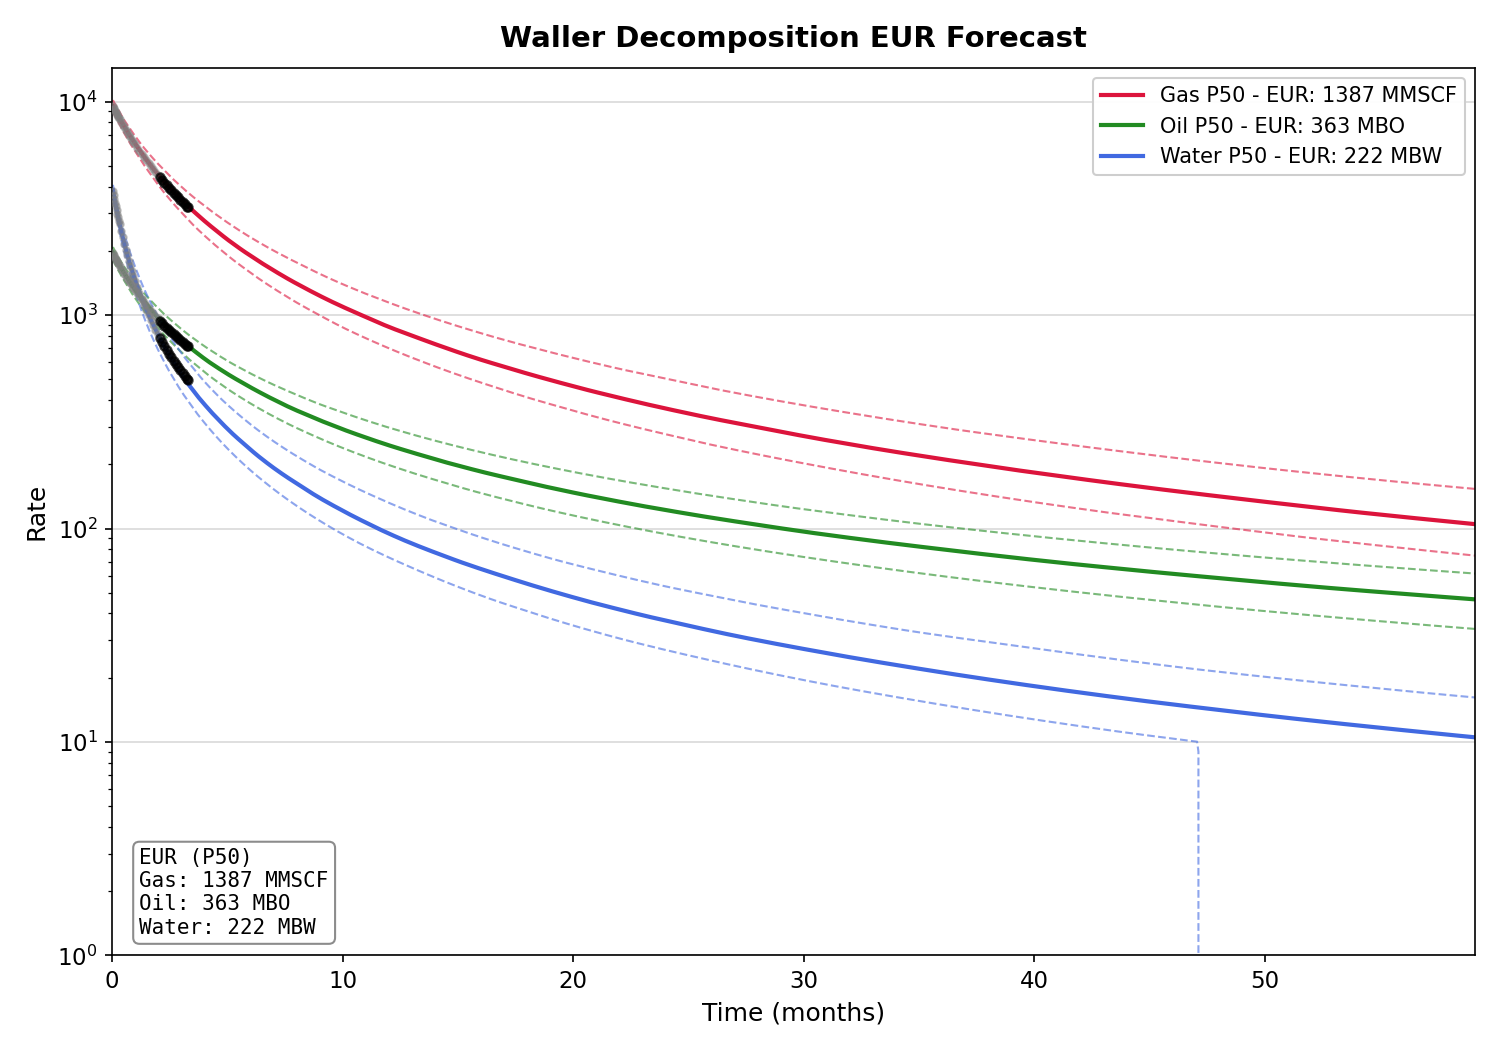
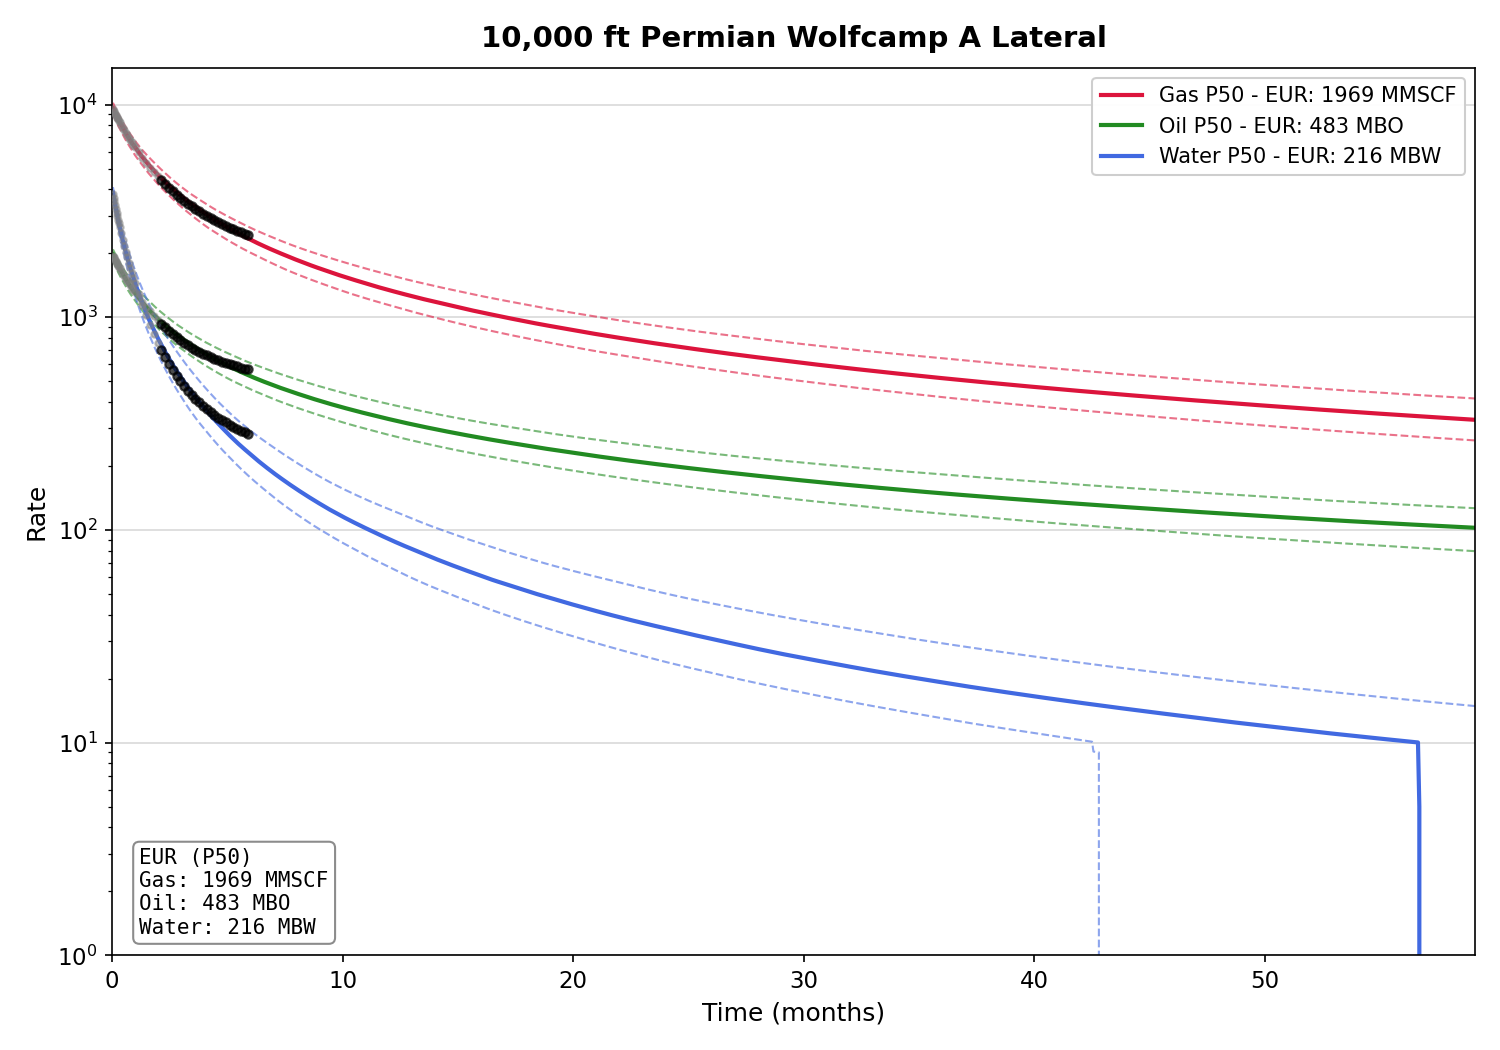
Realistic Permian lateral data, update plot title

diff --git a/run_example.py b/run_example.py
@@ -230,7 +230,7 @@ def run_single_well(filepath, save_csv=True, save_plot=True, quiet=False):
                 bbox=dict(boxstyle='round', facecolor='white', edgecolor='gray', alpha=0.9))
         
         # Title
-        ax.set_title('Waller Decomposition EUR Forecast', fontsize=14, fontweight='bold', pad=10)
+        ax.set_title('10,000 ft Permian Wolfcamp A Lateral', fontsize=14, fontweight='bold', pad=10)
         
         plt.tight_layout()
         plot_path = f"{basename}_forecast.png"